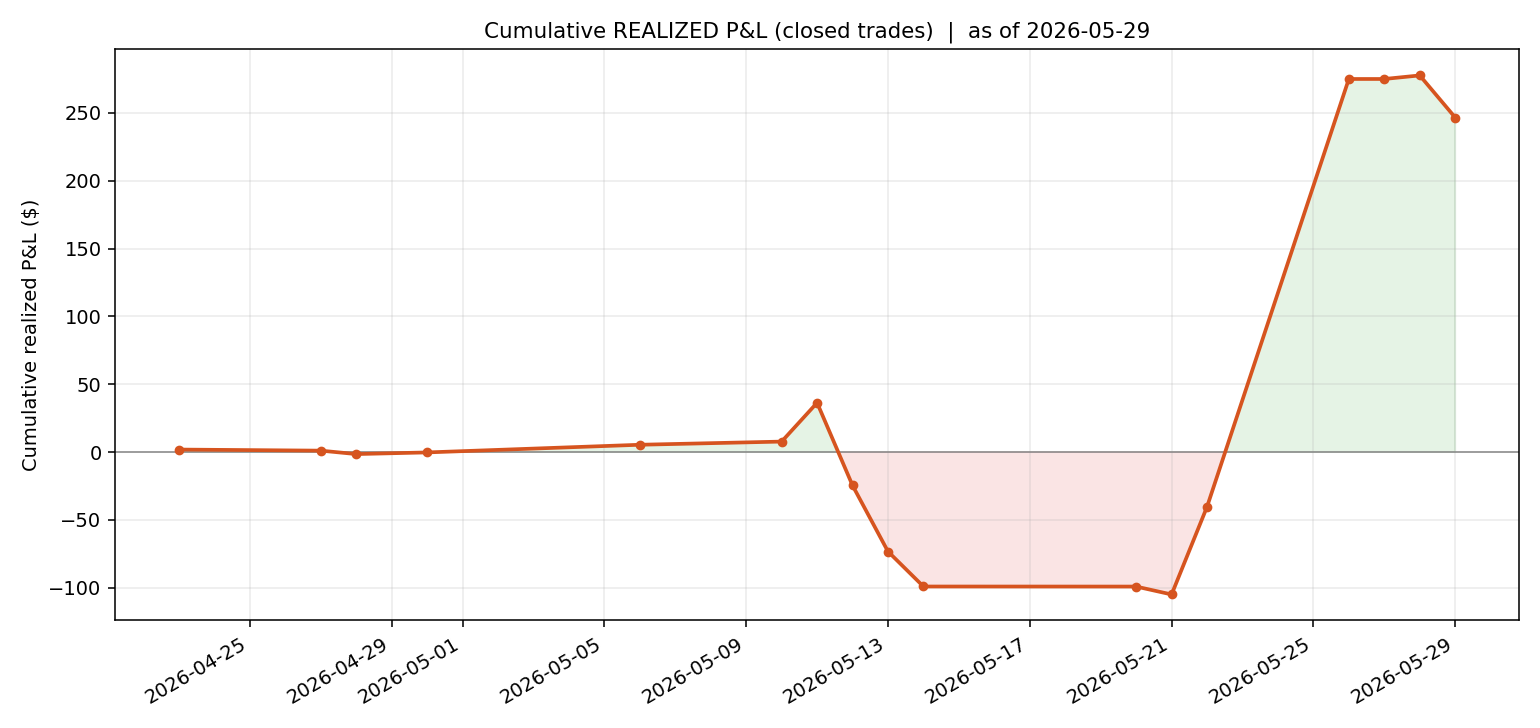
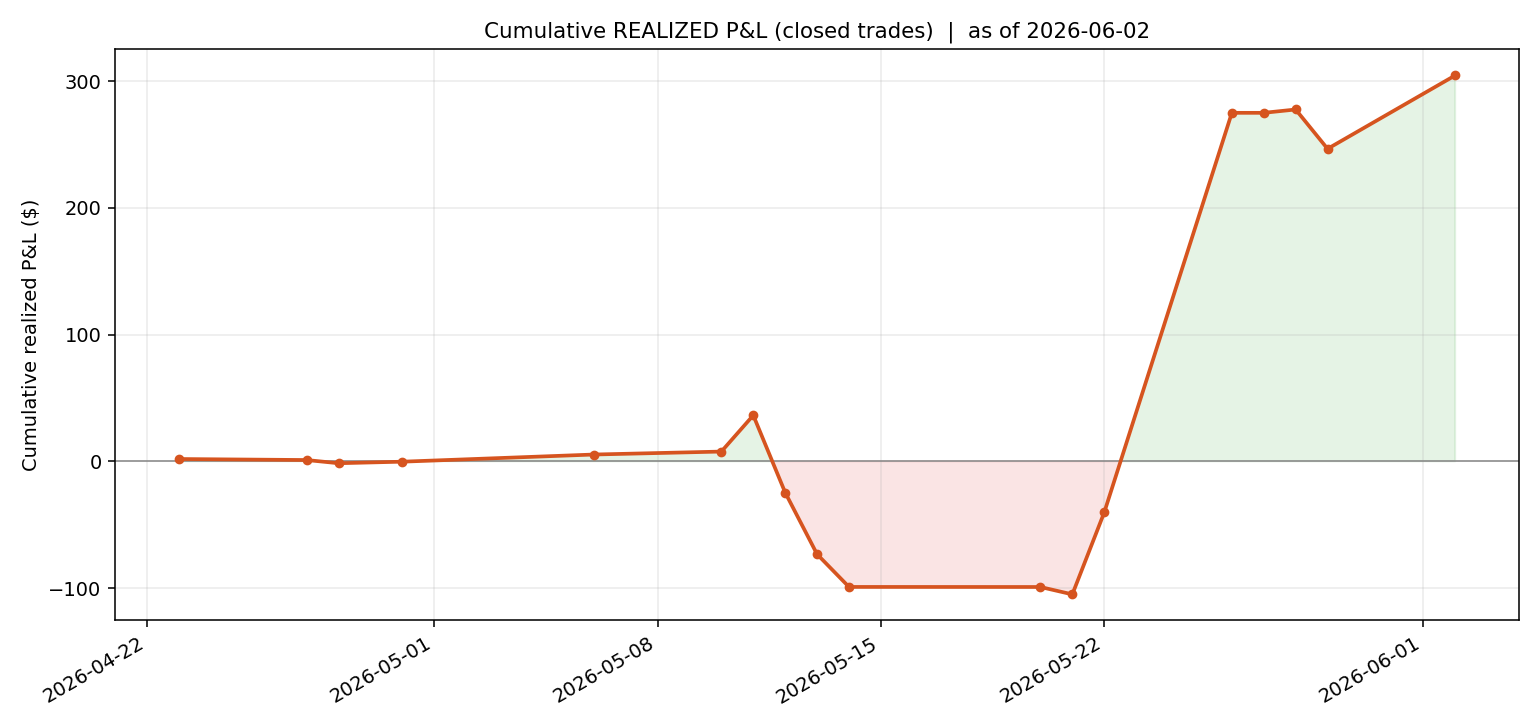
更新持仓 + dashboard 到 6/2(MU 加仓/CIEN·QCOM 清仓/新建 MRVL·ADBE)
- 台账加 6/1-6/2 成交;NAV 估算 ~$7,526(+12.7%),待账户页确认
- 持仓:MU 2(28% 超线)/SPY/MRVL/ADBE/ASTS/DTCR/BB + 3 张 call
- 标记红线:MU 超 20% 单票上限、卫星 5 只超 4 槽、AI 半导体集中
- 同步 strategy v1.0 卫星槽位 + README

diff --git a/tools/portfolio_stats.py b/tools/portfolio_stats.py
@@ -19,16 +19,16 @@ import datetime
 
 # ── 1. 账户总览(从 Robinhood 账户页抄真实值)─────────────────────────
 ACCOUNT = {
-    "as_of": "2026-05-29",
-    "nav": 7310.46,          # Total in Robinhood
-    "cash": 2597.76,         # 现金(CIEN 减 1 股 @$546 后:2051.67 + 546.09)
+    "as_of": "2026-06-02",
+    "nav": 7526.00,          # ⚠️ 估算(待 Robinhood 账户页确认):cash 1191.65 + 持仓 + 期权
+    "cash": 1191.65,         # 由完整台账轧差估算(6/2 大量买入后);待账户页核对
     "net_deposits": 6675.08, # 历史净入金(含 bonus)
 }
 
 # ── 2. 当前持仓最新价(用于未实现盈亏)──────────────────────────────
-PRICES = {
-    "MU": 923.52, "CIEN": 546.11, "QCOM": 248.82, "SPY": 754.65,
-    "DTCR": 31.72, "ASTS": 130.79, "BB": 8.78,
+PRICES = {     # 2026-06-02 收盘附近(WebSearch);CIEN/QCOM 已清仓不列
+    "MU": 1059.44, "SPY": 760.00, "DTCR": 30.47, "ASTS": 104.90,
+    "BB": 8.78, "ADBE": 274.03, "MRVL": 282.92,
 }
 
 # ── 3. 四桶目标(策略 v1.0)────────────────────────────────────────
@@ -76,15 +76,21 @@ LEDGER = [
  ("2026-05-28","TSLA","S",1,441.77),("2026-05-28","NVDA","S",4,213.35),
  ("2026-05-28","CIEN","B",1,571.31),("2026-05-29","ASTS","B",5,107.89),
  ("2026-05-29","CIEN","S",1,546.11),
+ # ---- 6/1–6/2 新增 ----
+ ("2026-06-01","ADBE","B",3,267.00),
+ ("2026-06-02","CIEN","S",1,586.31),   # CIEN 清仓(财报前全出)
+ ("2026-06-02","QCOM","S",3,228.45),   # QCOM 清仓
+ ("2026-06-02","MRVL","B",3,262.97),   # 新建(AI 半导体,当天 +29%)
+ ("2026-06-02","MU","B",1,1022.00),    # MU 加仓 → 2 股(均价 $965.89)
 ]
 # 数据缺口手工修正:LITE2X(首笔买入在 PDF 覆盖范围外,净额 -5.83);TSLA 赠股 +5.65
 MANUAL_REALIZED = {"LITE2X": -5.83, "TSLA_bonus": 5.65}
-OPTIONS_REALIZED = {"NVDA calls (5/15)": 157.0}   # 已平仓期权
-OPTIONS_OPEN = {"DJT $15C 6/18": 17.0, "BB $9C 6/12": 62.0}  # 仍持有(按成本)
+OPTIONS_REALIZED = {"NVDA calls (5/15)": 157.0, "BB $9C 6/12": 52.0}  # 已平仓期权(BB:买$62卖$114)
+OPTIONS_OPEN = {"DJT $15C 6/18": 17.0, "NOK $17.5C 6/18": 97.0, "BB $11C 6/26": 88.0}  # 仍持有(按成本)
 
 # 卫星桶主题归类(用于分散度展示)
-THEME = {"MU":"AI硬件","CIEN":"AI光通信","QCOM":"半导体","ASTS":"太空",
-         "SPY":"核心","DTCR":"AI数据中心","BB":"投机/软件"}
+THEME = {"MU":"AI硬件/存储","ASTS":"太空","SPY":"核心","DTCR":"AI数据中心",
+         "BB":"投机/软件","ADBE":"软件(设计)","MRVL":"AI半导体"}
 
 
 def fetch_live_prices():

diff --git a/DASHBOARD.md b/DASHBOARD.md
@@ -1,38 +1,38 @@
 # 📊 Little Pig Stock — Dashboard
 
-![NAV](https://img.shields.io/badge/NAV-%247%2C310-1f6feb)
-![Return](https://img.shields.io/badge/Total_Return-%2B9.5%25-2ca02c)
-![Realized](https://img.shields.io/badge/Realized-%2B%24404-2ca02c)
-![Unrealized](https://img.shields.io/badge/Unrealized-%2B%24306-2ca02c)
-![WinRate](https://img.shields.io/badge/Win_Rate-43%25-e3b341)
+![NAV](https://img.shields.io/badge/NAV~est-%247%2C526-1f6feb)
+![Return](https://img.shields.io/badge/Total_Return-%2B12.7%25-2ca02c)
+![Realized](https://img.shields.io/badge/Realized-%2B%24514-2ca02c)
+![Unrealized](https://img.shields.io/badge/Unrealized-%2B%24338-2ca02c)
+![WinRate](https://img.shields.io/badge/Win_Rate-46%25-e3b341)
 ![Positions](https://img.shields.io/badge/Open_Positions-7-1f6feb)
 ![Strategy](https://img.shields.io/badge/Strategy-v1.0_4--bucket-orange)
-![Updated](https://img.shields.io/badge/Updated-2026--05--29-lightgrey)
+![Updated](https://img.shields.io/badge/Updated-2026--06--02-lightgrey)
 
-> 🔄 数据来源:`tools/portfolio_stats.py`(单一数据源)。每次更新交易记录后重跑该脚本即可刷新本页所有数字和图表。
-> ⚠️ "市值/未实现"用最近成交价估算,非实时;以 Robinhood 账户页为准。
+> 🔄 数据来源:`tools/portfolio_stats.py`(单一数据源)。
+> ⚠️ NAV/现金为**台账轧差估算**,待 Robinhood 账户页核对;持仓价为 6/2 收盘附近(WebSearch)。
 
 ---
 
-## 💰 账户快照（2026-05-29）
+## 💰 账户快照（2026-06-02，估算）
 
 | 指标 | 数值 |
 |---|---|
-| 总资产 NAV | **$7,310.46** |
-| 现金 | $2,051.67 |
+| 总资产 NAV（估算） | **~$7,526** |
+| 现金（估算） | ~$1,192 |
 | 历史净入金 | $6,675.08 |
-| **总盈亏（NAV − 入金）** | **+$635.38 / +9.5%** |
-| ↳ 已实现（落袋） | +$403.65（股 +$246.65 + 期权 +$157） |
-| ↳ 未实现（现价） | +$305.53 |
+| **总盈亏（NAV − 入金）** | **+$851 / +12.7%** |
+| ↳ 已实现（落袋） | +$514（股 +$305 + 期权 +$209） |
+| ↳ 未实现（现价） | +$338 |
 | 目标年化 | ~25% |
+
+> 📈 6/1–6/2 大涨主要靠 **MU 飙到 $1,059**(2 股浮盈 +$187)和 **MRVL +29%**(黄仁勋称"下一个万亿公司")。
 
 ---
 
 ## 📈 累计已实现盈亏曲线
 
 ![P&L Curve](assets/pnl_curve.png)
-
-> 故事:4 月到 5/11 贴着 0 线 → 5/12–5/21 高频乱砍跌到 ~−$100 → **5/26 单日靠 MEM +$137 + MU +$178 拉到 +$280** → 5/29 CIEN 减仓回落到 +$246。**赚钱靠拿住,亏钱靠手痒。**
 
 ---
 
@@ -43,16 +43,16 @@
 **🟢 前 5 名赢家**
 | 票 | 总盈亏 | 说明 |
 |---|---|---|
-| MU | **+$271** | 头号福将,两次波段 + 现仓 |
-| ASTS | **+$196** | 老仓 +$82 + 今天抄底 5 股 +$114 |
-| NVDA 期权 | **+$157** | 两笔 call 短炒(运气成分大) |
+| MU | **+$444** | 257 已实现 + 187 浮盈;现 2 股 @$1,059,头号 |
+| NVDA 期权 | **+$157** | 两笔 call 短炒(运气) |
 | BE | **+$111** | 3 天干净短打 |
-| QCOM | **+$110** | 一直没乱动,反而最稳 |
+| MEM | **+$74** | 拿住 11 天 |
+| ASTS | **+$67** | 老仓 +$82,新 5 股已转浮亏 -$15 |
 
 **🔴 前 5 名输家**
 | 票 | 总盈亏 | 说明 |
 |---|---|---|
-| CIEN | **−$151** | 最大亏损源,反复来回搓 |
+| CIEN | **−$111** | 最大亏损源,反复来回搓,6/2 已清仓 |
 | SATS | −$47 | 1 天就割 |
 | CRWV | −$38 | 计划外 |
 | ORCL | −$35 | 违反计划全清 |
@@ -60,18 +60,20 @@
 
 ---
 
-## 📦 当前持仓
+## 📦 当前持仓（2026-06-02）
 
-| 票 | 数量 | 均价 | 现价 | 市值 | 未实现 | 主题 |
-|---|---|---|---|---|---|---|
-| SPY | 1.375 | $718.57 | $754.65 | $1,037 | +$50 | 核心 |
-| MU | 1 | $909.78 | $923.52 | $924 | +$14 | AI 硬件 |
-| QCOM | 3 | $212.19 | $248.82 | $746 | +$110 | 半导体 |
-| ASTS | 5 | $107.89 | $130.79 | $654 | +$114 | 太空 |
-| CIEN | 1 | $577.15 | $546.11 | $546 | −$31 | AI 光通信 |
-| DTCR | 16.74 | $29.07 | $31.72 | $531 | +$44 | AI 数据中心 |
-| BB | 30 | $8.63 | $8.78 | $263 | +$4 | 投机 |
-| 期权 | DJT 6/18 call + BB 6/12 call | | | ~$79 | — | 赌场 |
+| 票 | 数量 | 均价 | 现价 | 市值 | 未实现 | 占NAV | 主题 |
+|---|---|---|---|---|---|---|---|
+| **MU** | 2 | $965.89 | $1,059.44 | $2,119 | +$187 | **28.2%** 🔴 | AI 硬件/存储 |
+| SPY | 1.375 | $718.57 | $760.00 | $1,045 | +$57 | 13.9% | 核心 |
+| **MRVL** | 3 | $262.97 | $282.92 | $849 | +$60 | 11.3% | AI 半导体（新） |
+| **ADBE** | 3 | $267.00 | $274.03 | $822 | +$21 | 10.9% | 软件设计（新,非AI）|
+| ASTS | 5 | $107.89 | $104.90 | $524 | −$15 | 7.0% | 太空 |
+| DTCR | 16.74 | $29.07 | $30.47 | $510 | +$23 | 6.8% | AI 数据中心 |
+| BB | 30 | $8.63 | $8.78 | $263 | +$4 | 3.5% | 投机 |
+| 期权 | DJT 6/18 + NOK 6/18 + BB 11C 6/26 | | | ~$202 | — | 2.7% | 赌场 |
+
+> 已清仓:CIEN(6/2 全出,财报前)、QCOM(6/2 全出 +$49);BB $9C 平仓 +$114(净 +$52)。
 
 ---
 
@@ -79,12 +81,10 @@
 
 | 桶 | 目标 | 当前(约) | 状态 |
 |---|---|---|---|
-| 💵 现金储备 | $1,250 (17%) | ~$2,052 | 🟡 偏高(子弹充足,待部署) |
-| ⚓ 核心 SPY/QQQ | $1,250 (17%) | ~$1,037 | 🟡 略低,可补 |
-| 🛰️ 卫星 | $4,160 (57%) | ~$3,400 | 🟡 含 ASTS 归属待定 |
-| 🎰 赌场 | $650 (9%) | ~$340 | 🟢 在额度内 |
-
-> ⏳ 持仓"对账到四桶"尚未完成——下一步可做(把超标/错配的调整到位)。
+| 💵 现金储备 | $1,250 (17%) | ~$1,192 | 🟡 逼近 $1,000 地板 |
+| ⚓ 核心 SPY/QQQ | $1,250 (17%) | ~$1,045 | 🟡 略低 |
+| 🛰️ 卫星 | $4,160 (57%) | **~$4,824 (64%)** | 🔴 超配 + **5 只**(超 4 槽上限) |
+| 🎰 赌场 | $650 (9%) | ~$465 | 🟢 在额度内 |
 
 ---
 
@@ -92,11 +92,11 @@
 
 | 指标 | 数值 |
 |---|---|
-| 交易过的标的数 | 28 |
-| 已平仓票胜率 | **10 赢 / 13 亏 = 43%** |
-| 最大单票赢家 | MU +$257（已实现） |
-| 最大单票输家 | CIEN −$120（已实现） |
-| 主要毛病 | 高频翻仓 / 板块集中 / 卖了又追 |
+| 交易过的标的数 | 30 |
+| 已平仓票胜率 | **11 赢 / 13 亏 = 46%** |
+| 最大单票赢家 | MU +$444（含浮盈） |
+| 最大单票输家 | CIEN −$111（已清仓） |
+| 主要毛病 | 高频翻仓 / 板块集中 / 追涨 |
 
 ---
 
@@ -104,24 +104,25 @@
 
 | 红线 | 状态 |
 |---|---|
-| 现金 ≥ $1,000 | ✅ $2,052 |
-| 赌场 ≤ $800 | ✅ ~$340 |
-| 卫星单只 ≤ 20% NAV | ✅（CIEN 15% / MU 13%） |
-| 同主题 ≤ 2 + 至少 1 非 AI | 🔴 **全是 AI/科技/太空,缺非 AI 分散票** |
+| 现金 ≥ $1,000 | 🟡 ~$1,192(逼近) |
+| 赌场 ≤ $800 | ✅ ~$465 |
+| **卫星单只 ≤ 20% NAV** | 🔴 **MU 28.2%,超线** |
+| **卫星 ≤ 4 只 + 同主题≤2 + 1 非AI** | 🔴 **5 只;MU+MRVL+DTCR 三只 AI 半导体/基建** |
 | 每只必挂止损 | ⏳ 待确认 |
-| 博主/新闻 24h 冷静 | 🔴 5/29 ASTS 即兴追入(违反) |
-| day-trade 每周 ≤ 1 | 🔴 过去两周远超 |
+| 博主/新闻 24h 冷静 | 🔴 MRVL 当天追涨(黄仁勋表态)|
+| day-trade 每周 ≤ 1 | 🔴 6/1–6/2 又一轮高频 |
 
 ---
 
 ## 🗓️ 待办 / 下一步
 
-- [ ] 处理 MU $900 limit 挂单(成交会使半导体超 40%)
-- [ ] ASTS 设止损 $95
-- [ ] 持仓对账到四桶,补 1 只非 AI 分散票
-- [ ] CIEN 1 股:6/4 财报后决定去留
+- [ ] **MU 减回 ≤20% NAV**(现 28%;减约 $600 / 0.5 股)
+- [ ] **卫星砍到 4 只**(MU/MRVL/DTCR 三 AI 半导体留 2,DTCR 或 MRVL 取舍)
+- [ ] ADBE 注意:CEO 刚辞任 + 6/11 财报,设好止损
+- [ ] 给每只卫星补挂止损
+- [ ] **提供 Robinhood 账户页(NAV+现金)** 让我核准估算值
 - [ ] 补全画像待办(年龄/身份、IBKR、常看博主)
 
 ---
 
-<sub>📁 详见 `journal/reviews/`（复盘）· `strategy/strategy_v1.0_simple.md`（策略）· `profile/client_profile_v2.md`（画像）。本页由 `tools/portfolio_stats.py` 驱动,每次更新交易后重跑刷新。</sub>
+<sub>📁 详见 `journal/reviews/`（复盘）· `strategy/strategy_v1.0_simple.md`（策略）· `profile/client_profile_v2.md`（画像）。本页由 `tools/portfolio_stats.py` 驱动。</sub>

diff --git a/strategy/strategy_v1.0_simple.md b/strategy/strategy_v1.0_simple.md
@@ -74,12 +74,14 @@
 
 | 槽位 | 主题 | 当前持有 | 备注 |
 |---|---|---|---|
-| 1 | AI 硬件/存储 | **MU**(1 股 @$909) | 最有信念、历史最赚;成本偏高,补仓走分批 |
-| 2 | — | 待定 | 随市场选,过 5 条准入 |
-| 3 | — | 待定 | 建议留给非 AI 分散票 |
-| 4 | — | 待定 | |
+| 1 | AI 硬件/存储 | **MU**(2 股 @均$966) | 现 $1,059,**占 28% NAV → 超 20% 上限,需减** |
+| 2 | AI 半导体 | **MRVL**(3 股 @$263) | 6/2 当天追涨(黄仁勋表态),现 $283 |
+| 3 | 软件(非AI)| **ADBE**(3 股 @$267) | ✅ 唯一非 AI 分散票;但 CEO 辞任 + 6/11 财报 |
+| 4 | 太空 | **ASTS**(5 股 @$108) | 现 $105,已转浮亏;偏投机 |
+| (超额) | AI 数据中心 | **DTCR**(16.7 股) | ⚠️ 第 5 只,**超 4 槽上限**,需取舍 |
 
-> CIEN(1 股)目前也在持有,6/4 财报后再决定去留(留则占 1 个槽位)。
+> 🔴 **当前违规**:① 5 只票(上限 4);② MU 28% 超单票 20%;③ MU+MRVL+DTCR 三只 AI 半导体/基建(同主题应 ≤2)。
+> CIEN、QCOM 已于 6/2 清仓。下一步:MU 减仓 + 卫星砍到 4 只。
 
 ---
 

diff --git a/README.md b/README.md
@@ -17,11 +17,11 @@
 - **持有人**：PM
 - **所在地**：美东时间
 - **经纪商**：Robinhood（个人账户）+ IBKR（用户 5/14 提及,详情待补）
-- **账户规模**：**$7,310.46**（Robinhood 真实账户总览,2026-05-29;持仓 $5,258.79 + 现金 $2,051.67,无加密）
+- **账户规模**：**~$7,526**（2026-06-02 台账轧差估算,现金 ~$1,192 + 持仓 ~$6,132 + 期权;**待账户页确认**。上次确认值:$7,310.46 @5/29）
 - **历史净入金**：~$6,675（含 5/13 一笔 +$5,000;开户至今总盈利仅 ~+$635 / +9.5%）
 - **风险偏好**：成长偏激进；账户层面回撤承受 ~-15-20%;单股 -25% 可接受;不能所有票一起 -25%
 - **当前 YTD**：⚠️ **待核实**（旧记录称 +49%,但与完整交易历史对不上——真实账户回报约 +9.5%;+49% 可能指某早期阶段或单笔如 MU +39%,详见 `journal/reviews/2026-05-29_trade_history_review_and_holdings_v4.md`）
-- **当前持仓**（2026-05-29 实时）：CIEN 1 股（财报前已减 1 股）/ MU 1 股（另挂 $900 limit 加仓,建议撤）/ QCOM 3 股 / SPY ~1.375 股 / DTCR ~16.74 股 / **ASTS 5 股（5/29 再入 @$107.89）** / BB 30 股 + DJT 6/18 call + BB 6/12 call;NVDA/MRNA/BE/TSLA/BTC/GLD 等已全平
+- **当前持仓**（2026-06-02）：MU 2 股(28% NAV,超线) / SPY ~1.375 股 / MRVL 3 股(新) / ADBE 3 股(新,非AI) / ASTS 5 股 / DTCR ~16.74 股 / BB 30 股 + DJT/NOK/BB 三张 call;CIEN、QCOM 已清仓
 
 ## 🗂️ 目录结构
 